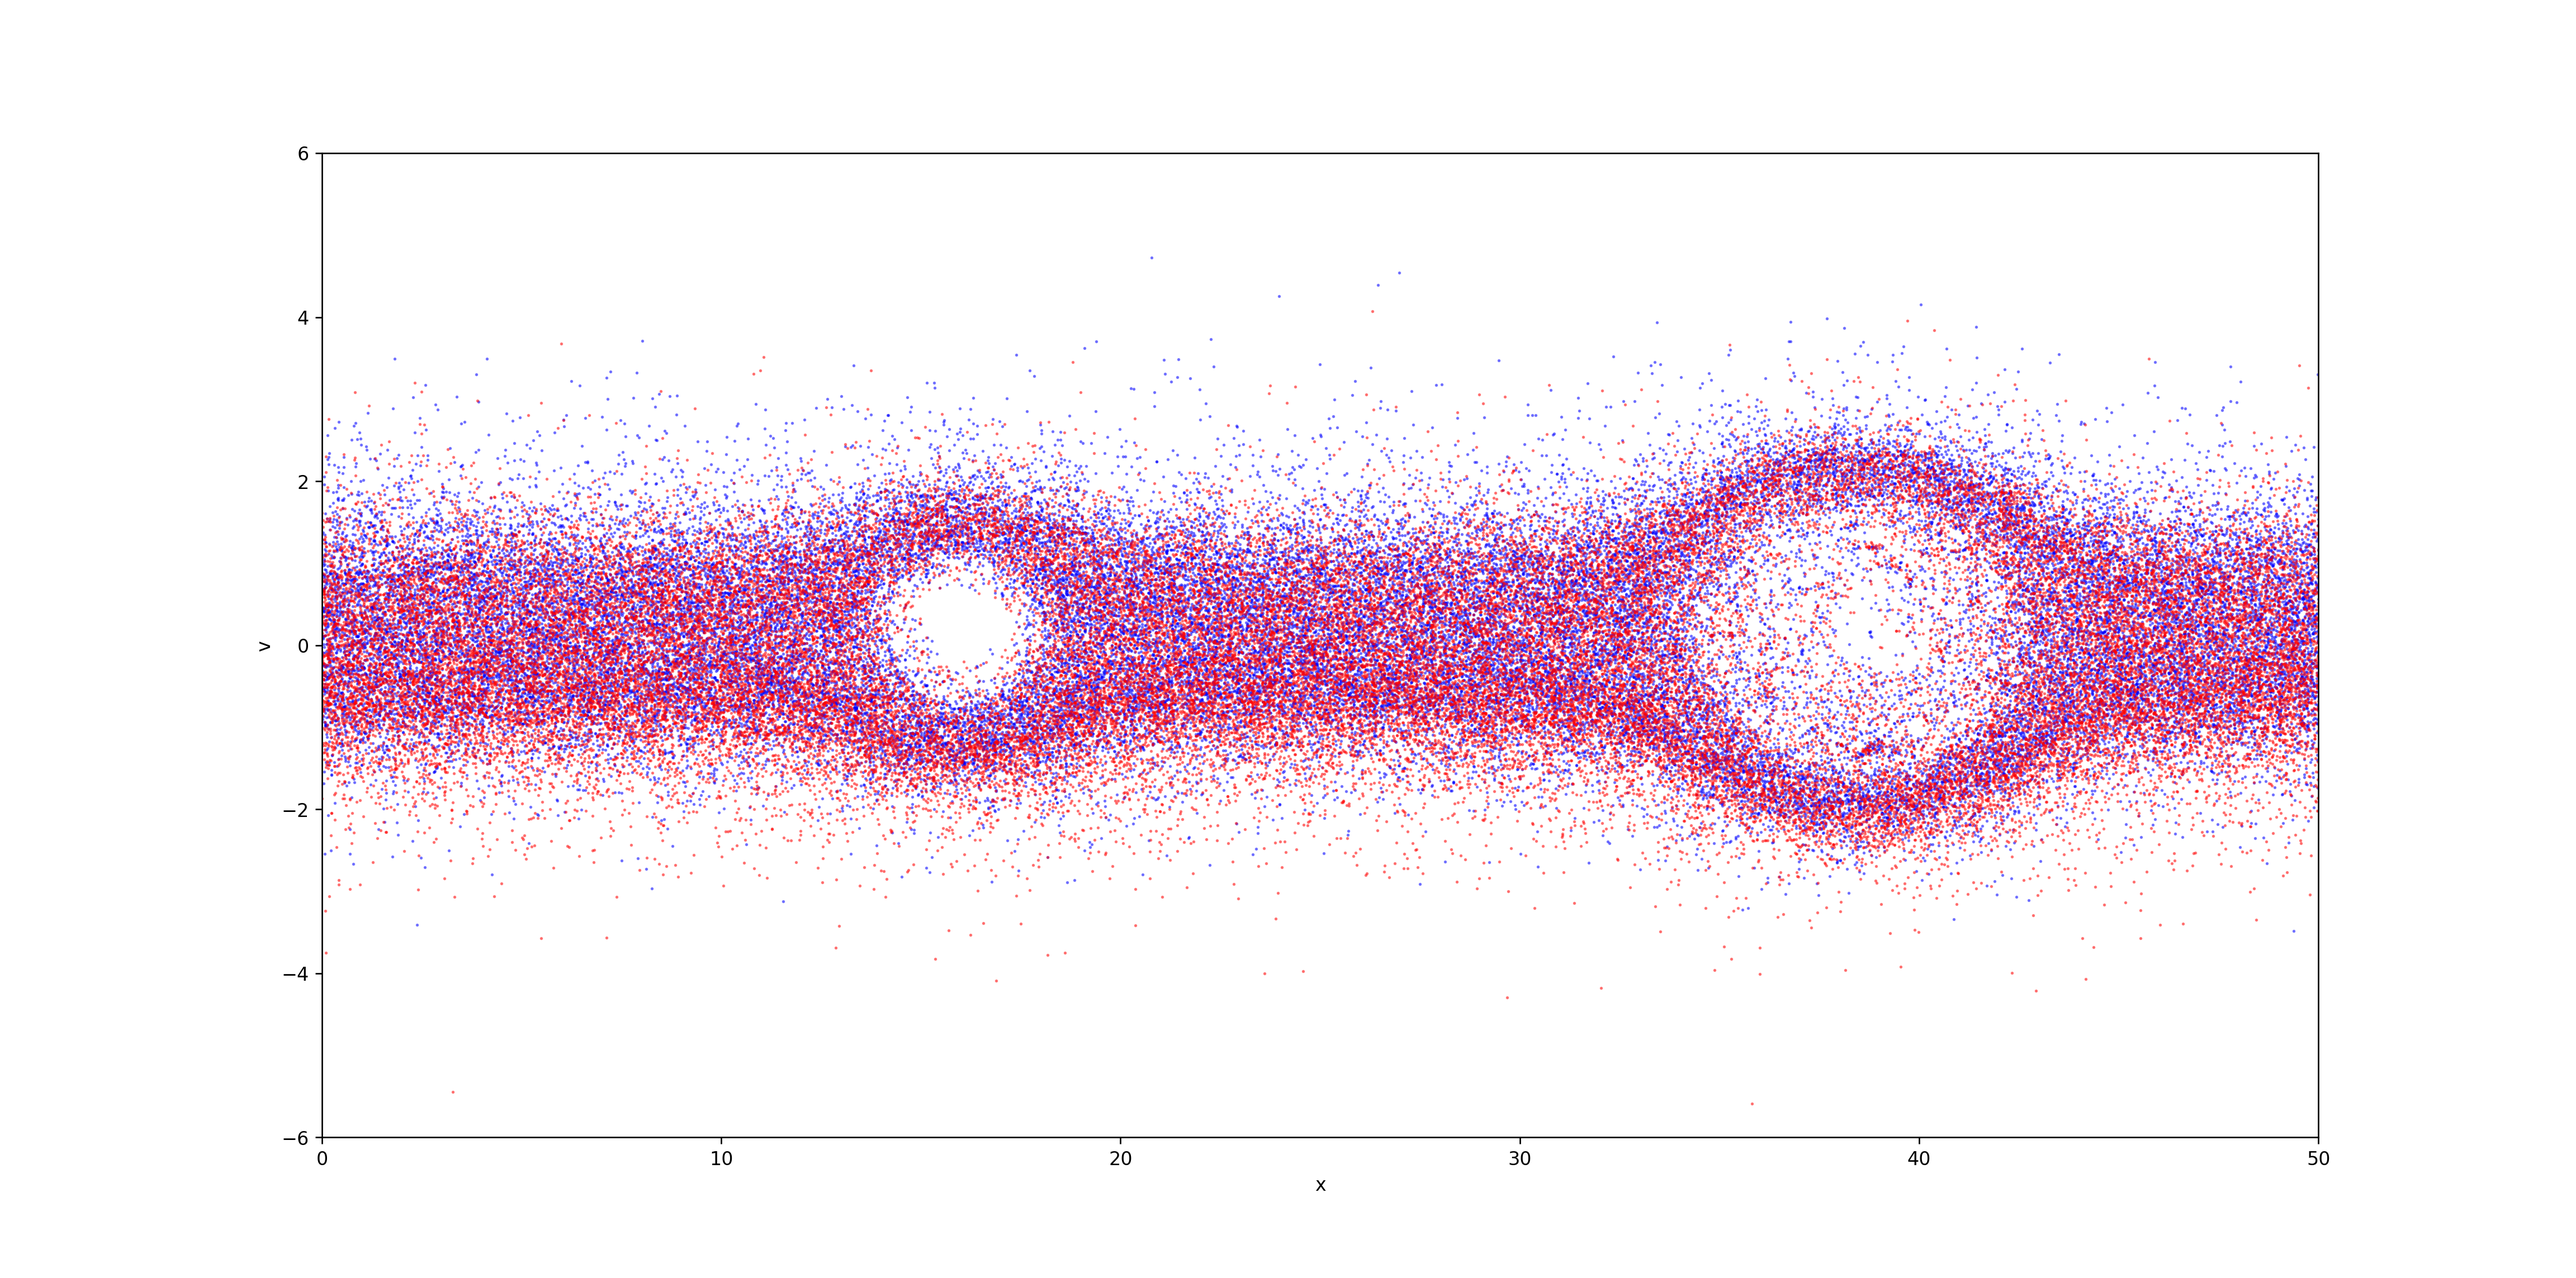
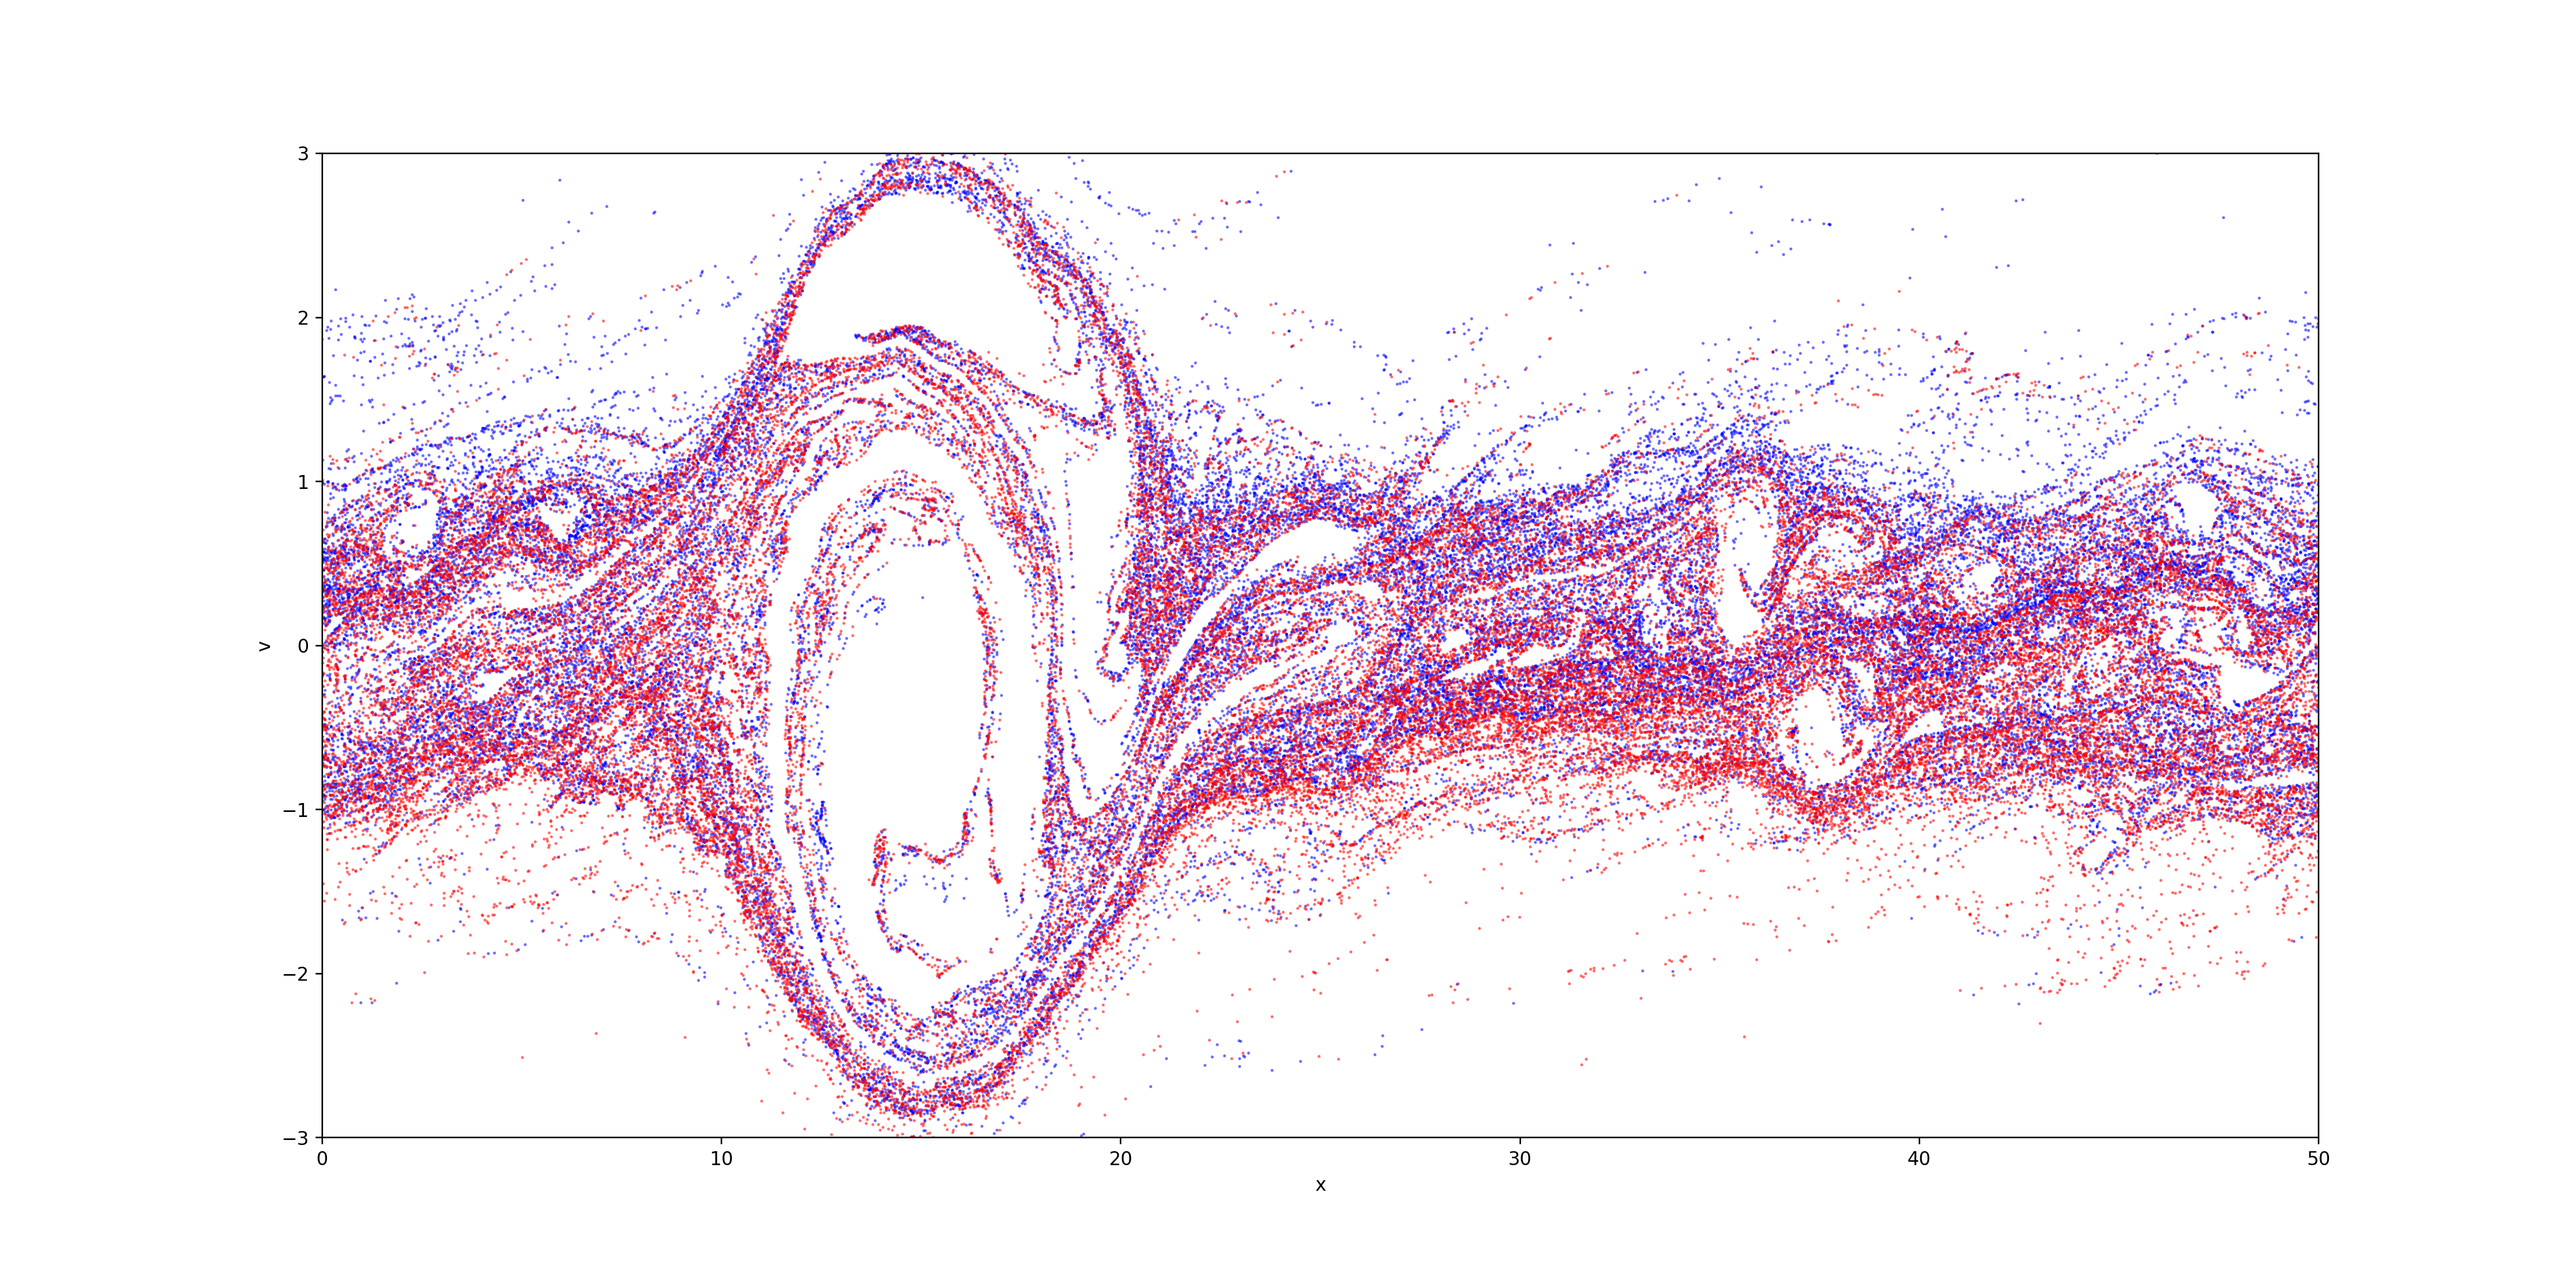
.

Changed region(s): [[0.125, 0.1242, 0.9062, 0.9003]]

diff --git a/1d PIC/premade_pic.py b/1d PIC/premade_pic.py
@@ -51,10 +51,10 @@ def main():
 
     # Simulation parameters
     N = 100000  # Number of particles
-    Nx = 1000  # Number of mesh cells
+    Nx = 500  # Number of mesh cells
     t = 0  # current time of the simulation
-    tEnd = 500  # time at which simulation ends
-    dt = 1  # timestep
+    tEnd = 100  # time at which simulation ends
+    dt = 0.5  # timestep
     boxsize = 50  # periodic domain [0,boxsize]
     n0 = 1  # electron number density
     vb = 1  # beam velocity
@@ -87,7 +87,7 @@ def main():
     # Construct matrix L to computer Laplacian (2nd derivative)
     diags = np.array([-1, 0, 1])
     vals = np.vstack((e, -2 * e, e))
-    Lmtx = sp.spdiags(vals, diags, Nx, Nx);
+    Lmtx = sp.spdiags(vals, diags, Nx, Nx)
     Lmtx = sp.lil_matrix(Lmtx)
     Lmtx[0, Nx - 1] = 1
     Lmtx[Nx - 1, 0] = 1
@@ -126,7 +126,8 @@ def main():
             plt.cla()
             plt.scatter(pos[0:Nh], vel[0:Nh], s=.4, color='blue', alpha=0.5)
             plt.scatter(pos[Nh:], vel[Nh:], s=.4, color='red', alpha=0.5)
-            plt.axis([0, boxsize, -6, 6])
+            plt.axis([0, boxsize, -3 * vb, 3 * vb])
+            #plt.title(f'Timestep={i}')
             plt.pause(0.001)
 
     # Save figure
